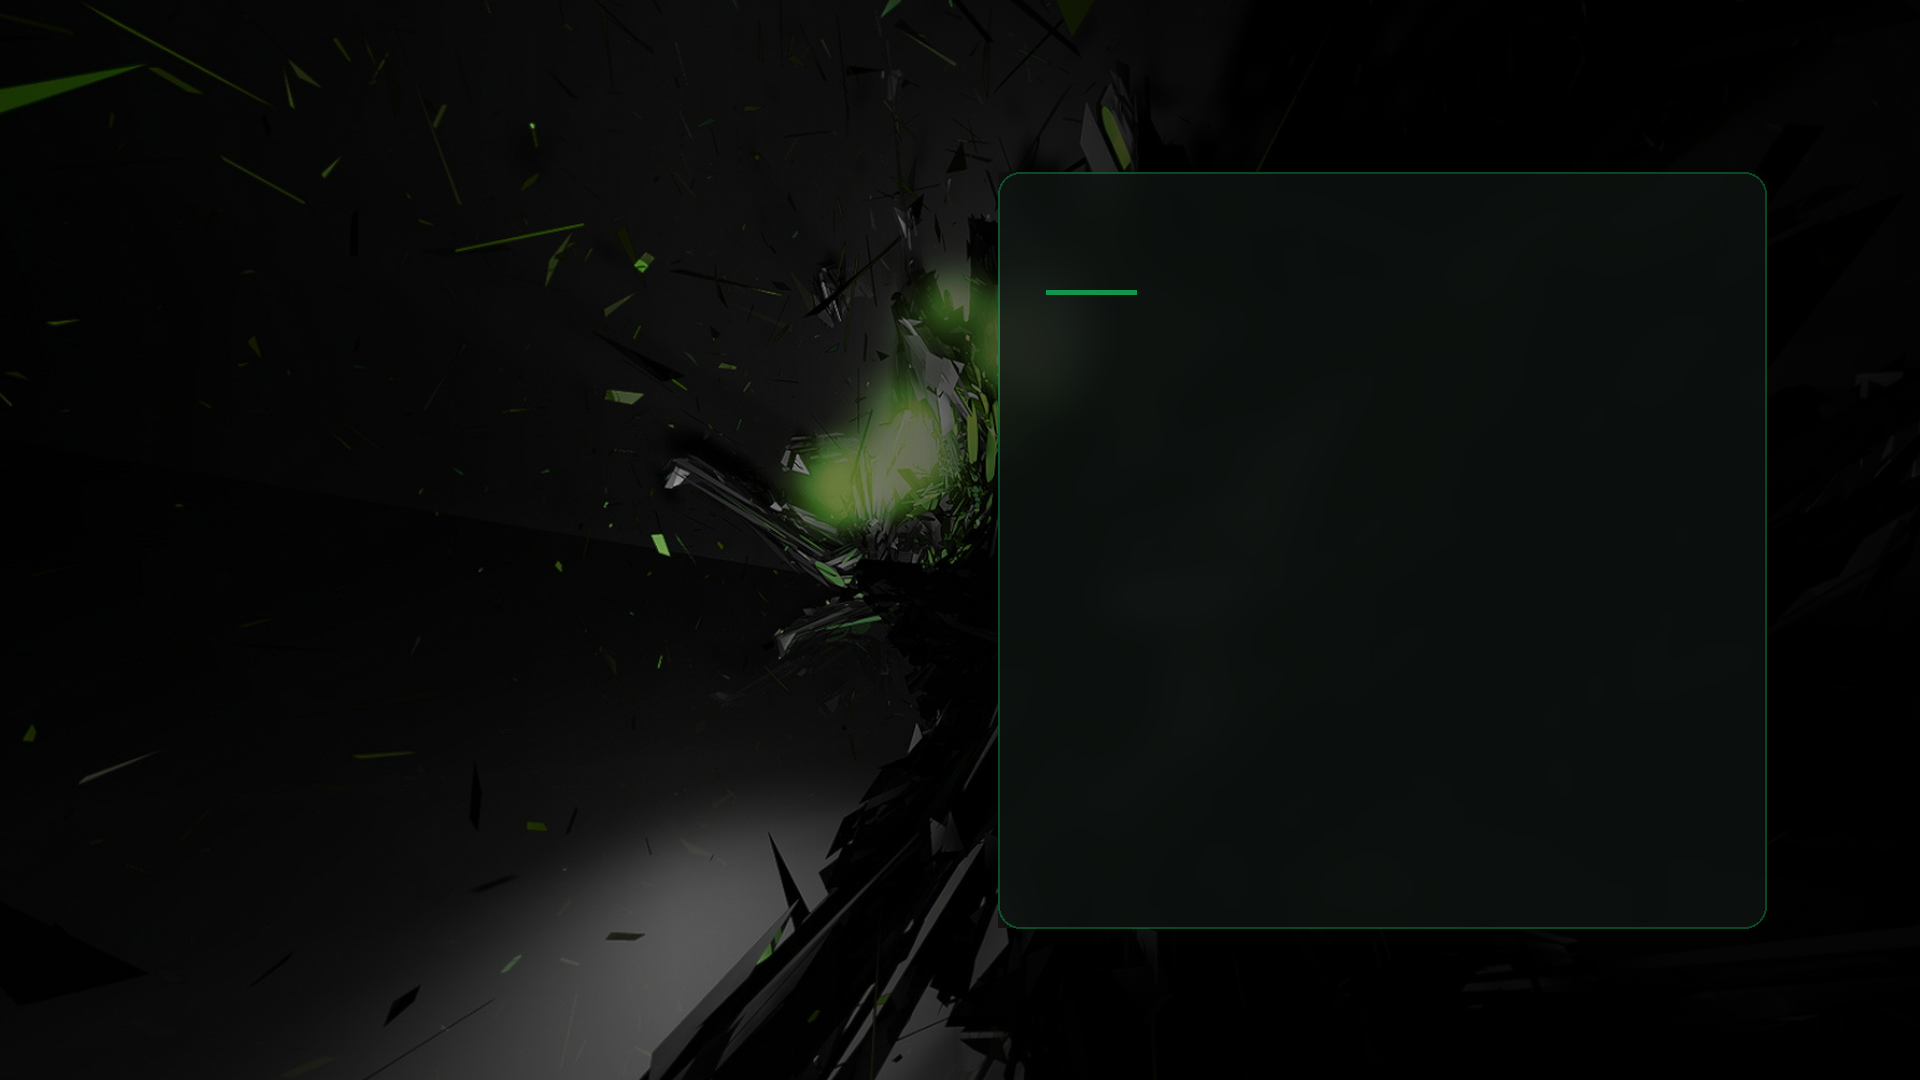
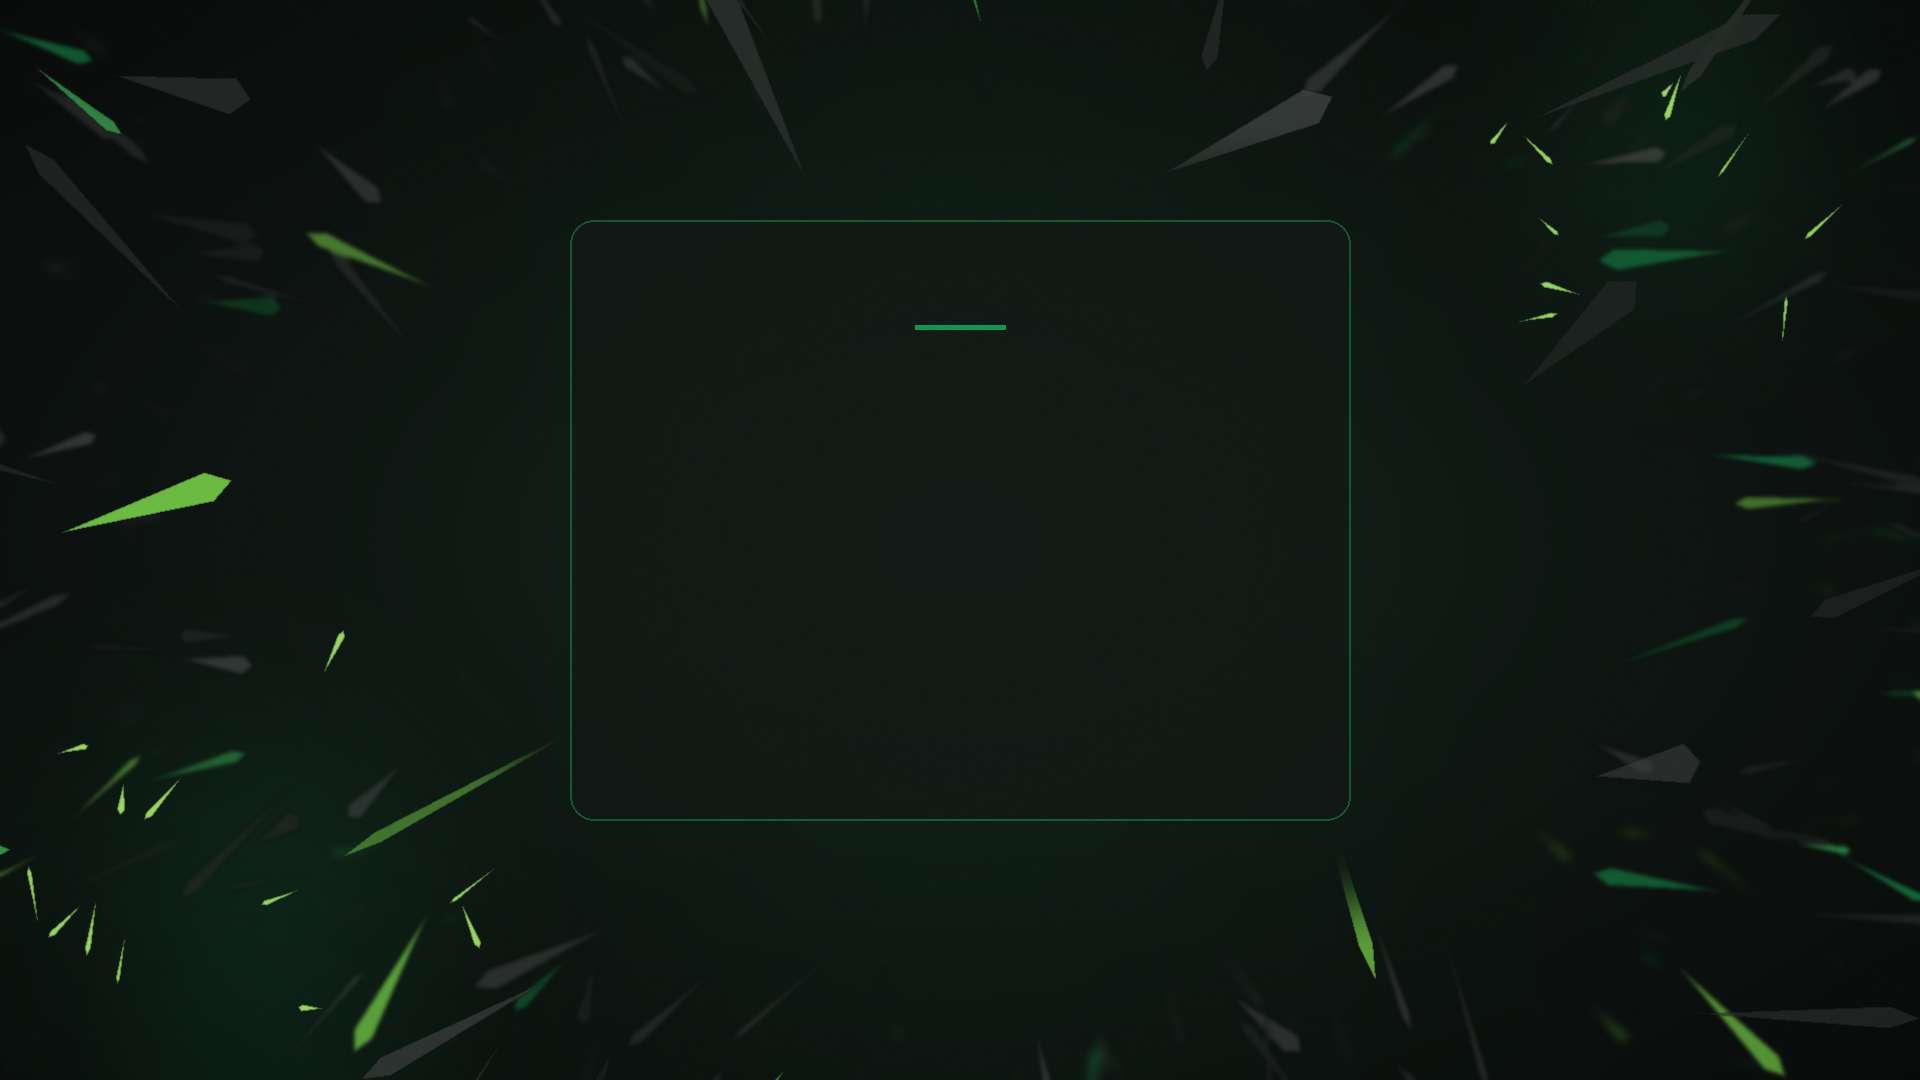
GRUB theme: centred panel on a procedural shard background
Claude-Session: https://claude.ai/code/session_01XvhL4NMHMQ8YHSGJgPyYHP

diff --git a/grub/build-theme.py b/grub/build-theme.py
@@ -1,14 +1,18 @@
 #!/usr/bin/env python3
 """Generate the i3green GRUB theme assets (background, selection bar, icons, fonts).
 
+The background is procedural (dark shards + green glow, same style as the desktop
+wallpaper) so the centred menu sits on empty space.
+
 Run: python3 grub/build-theme.py   -> writes grub/themes/i3green/
 """
+import math
 import os
+import random
 import subprocess
 from PIL import Image, ImageDraw, ImageFilter, ImageFont
 
 HERE = os.path.dirname(os.path.abspath(__file__))
-REPO = os.path.dirname(HERE)
 OUT = os.path.join(HERE, "themes", "i3green")
 ICONS = os.path.join(OUT, "icons")
 W, H = 1920, 1080
@@ -30,33 +34,104 @@ def save(img, path):
     img.save(path, "PNG", optimize=True)  # PIL never writes interlaced PNGs
 
 
+# Centered menu panel (theme.txt positions are derived from these)
+PX, PY, PW, PH = 570, 220, 780, 600
+
+
+def shard(d, cx, cy, ang, length, width, color):
+    """Thin triangle pointing along ang, base at (cx, cy)."""
+    dx, dy = math.cos(ang), math.sin(ang)
+    nx, ny = -dy, dx
+    tip = (cx + dx * length, cy + dy * length)
+    b1 = (cx + nx * width / 2, cy + ny * width / 2)
+    b2 = (cx - nx * width / 2, cy - ny * width / 2)
+    back = (cx - dx * length * 0.15, cy - dy * length * 0.15)
+    d.polygon([b1, tip, b2, back], fill=color)
+
+
+def shard_layer(rng, count, size, blur, alpha, green_ratio):
+    layer = Image.new("RGBA", (W, H), (0, 0, 0, 0))
+    d = ImageDraw.Draw(layer)
+    cx, cy = W / 2, H / 2
+    for _ in range(count):
+        a = rng.uniform(0, 2 * math.pi)
+        # keep the middle empty: radius in ellipse units, 0.7 .. 1.2
+        r = rng.uniform(0.7, 1.2)
+        x, y = cx + math.cos(a) * r * W * 0.55, cy + math.sin(a) * r * H * 0.62
+        ang = math.atan2(y - cy, x - cx) + rng.uniform(-0.5, 0.5)
+        if rng.random() < 0.5:
+            ang += math.pi                     # some point inwards
+        length = rng.uniform(0.3, 1.0) * size
+        width = rng.uniform(0.04, 0.16) * size
+        if rng.random() < green_ratio:
+            g = rng.choice([GREEN, (0x3C, 0xC8, 0x5A), (0x7E, 0xE0, 0x4A), DARK_GREEN])
+        else:
+            v = rng.randint(28, 70)
+            g = (v, v + 4, v + 2)
+        shard(d, x, y, ang, length, width, g + (int(alpha * rng.uniform(0.5, 1.0)),))
+    layer = layer.filter(ImageFilter.GaussianBlur(blur)) if blur else layer
+    # clear a soft margin around the panel so nothing pokes out from under it
+    keep = Image.new("L", (W, H), 255)
+    ImageDraw.Draw(keep).rounded_rectangle([PX - 50, PY - 50, PX + PW + 50, PY + PH + 90],
+                                           radius=60, fill=0)
+    keep = keep.filter(ImageFilter.GaussianBlur(25))
+    layer.putalpha(Image.composite(layer.getchannel("A"), Image.new("L", (W, H), 0), keep))
+    return layer
+
+
+def glow(img, x, y, radius, color, strength):
+    layer = Image.new("RGBA", (W, H), (0, 0, 0, 0))
+    ImageDraw.Draw(layer).ellipse([x - radius, y - radius, x + radius, y + radius],
+                                  fill=color + (strength,))
+    return Image.alpha_composite(img, layer.filter(ImageFilter.GaussianBlur(radius * 0.6)))
+
+
 def background():
-    src = Image.open(os.path.join(REPO, "wallpapers", "background.jpg")).convert("RGB")
-    # cover-crop 16:10 -> 16:9
-    scale = max(W / src.width, H / src.height)
-    src = src.resize((round(src.width * scale), round(src.height * scale)), Image.LANCZOS)
-    left, top = (src.width - W) // 2, (src.height - H) // 2
-    img = src.crop((left, top, left + W, top + H)).convert("RGBA")
+    rng = random.Random(15)
 
-    # darken towards the right where the menu lives
-    shade = Image.new("L", (W, H))
-    d = ImageDraw.Draw(shade)
-    for x in range(W):
-        t = max(0.0, min(1.0, (x - W * 0.35) / (W * 0.25)))
-        d.line([(x, 0), (x, H)], fill=int(90 + 110 * t))
-    img = Image.composite(Image.new("RGBA", (W, H), (0, 0, 0, 255)), img, shade)
+    # radial base: dark green-black centre -> black edges
+    base = Image.new("L", (W, H))
+    bd = ImageDraw.Draw(base)
+    for i in range(60, 0, -1):
+        t = i / 60
+        bd.ellipse([W / 2 - t * W * 0.8, H / 2 - t * H * 0.8,
+                    W / 2 + t * W * 0.8, H / 2 + t * H * 0.8], fill=int(255 * (1 - t)))
+    base = base.filter(ImageFilter.GaussianBlur(40))
+    img = Image.composite(Image.new("RGBA", (W, H), (0x10, 0x1C, 0x16, 255)),
+                          Image.new("RGBA", (W, H), (0x02, 0x03, 0x03, 255)), base)
 
-    # frosted panel behind the menu
-    px, py, pw, ph = int(W * 0.52), int(H * 0.16), int(W * 0.40), int(H * 0.70)
-    blurred = img.crop((px, py, px + pw, py + ph)).filter(ImageFilter.GaussianBlur(18))
-    img.paste(blurred, (px, py))
+    img = glow(img, W / 2, H / 2, 520, DARK_GREEN, 70)
+    img = glow(img, 260, 880, 220, GREEN, 60)
+    img = glow(img, 1680, 170, 180, GREEN, 50)
+
+    img = Image.alpha_composite(img, shard_layer(rng, 240, 90, 6, 120, 0.25))   # far
+    img = Image.alpha_composite(img, shard_layer(rng, 140, 150, 2.5, 180, 0.3))  # mid
+    img = Image.alpha_composite(img, shard_layer(rng, 40, 260, 0.7, 225, 0.35))    # near
+
+    # a few bright sparks near the glows
+    for gx, gy in [(260, 880), (1680, 170)]:
+        layer = Image.new("RGBA", (W, H), (0, 0, 0, 0))
+        d = ImageDraw.Draw(layer)
+        for _ in range(12):
+            x, y = gx + rng.gauss(0, 120), gy + rng.gauss(0, 90)
+            shard(d, x, y, rng.uniform(0, 2 * math.pi), rng.uniform(15, 50), rng.uniform(3, 7),
+                  (0xA8, 0xF0, 0x6A, 230))
+        img = Image.alpha_composite(img, layer.filter(ImageFilter.GaussianBlur(0.8)))
+
+    # frosted centred panel
+    blurred = img.crop((PX, PY, PX + PW, PY + PH)).filter(ImageFilter.GaussianBlur(22))
+    img.paste(blurred, (PX, PY))
     over = Image.new("RGBA", (W, H), (0, 0, 0, 0))
     od = ImageDraw.Draw(over)
-    od.rounded_rectangle([px, py, px + pw, py + ph], radius=22, fill=PANEL + (190,),
-                         outline=GREEN + (120,), width=2)
-    # accent line under the header
-    od.rectangle([px + 48, py + 118, px + 48 + 90, py + 122], fill=GREEN + (255,))
+    od.rounded_rectangle([PX, PY, PX + PW, PY + PH], radius=24, fill=PANEL + (200,),
+                         outline=GREEN + (130,), width=2)
+    od.rectangle([W // 2 - 45, PY + 105, W // 2 + 45, PY + 109], fill=GREEN + (255,))
     img = Image.alpha_composite(img, over)
+
+    # fine grain against banding in the dark gradients
+    noise = Image.effect_noise((W, H), 12).convert("RGBA")
+    noise.putalpha(10)
+    img = Image.alpha_composite(img, noise)
     save(img.convert("RGB"), os.path.join(OUT, "background.png"))
 
 
@@ -116,7 +191,6 @@ def icons():
     # Recovery / memtest / generic: circle with a wrench-ish mark -> keep it simple: gear
     img = icon_canvas(); d = ImageDraw.Draw(img)
     c = S // 2
-    import math
     for k in range(8):
         a = k * math.pi / 4
         x, y = c + math.cos(a) * 14 * SS, c + math.sin(a) * 14 * SS
